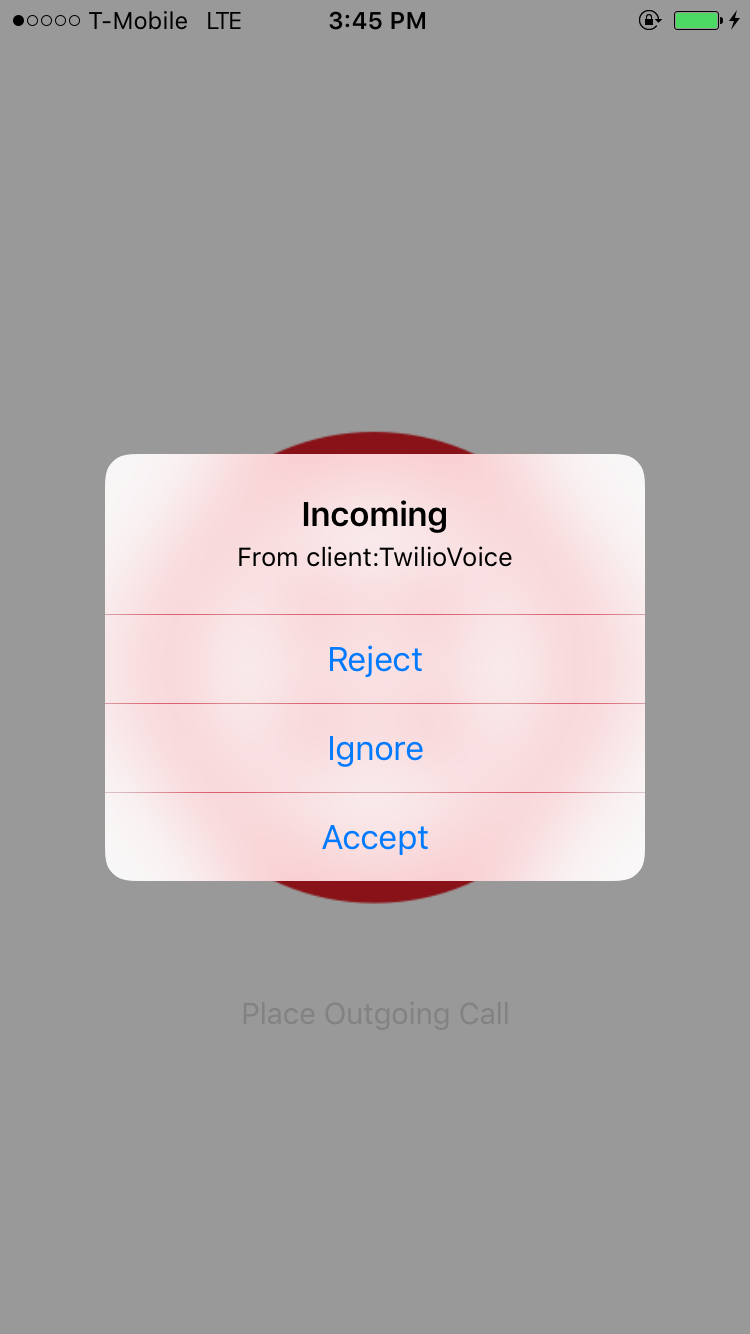
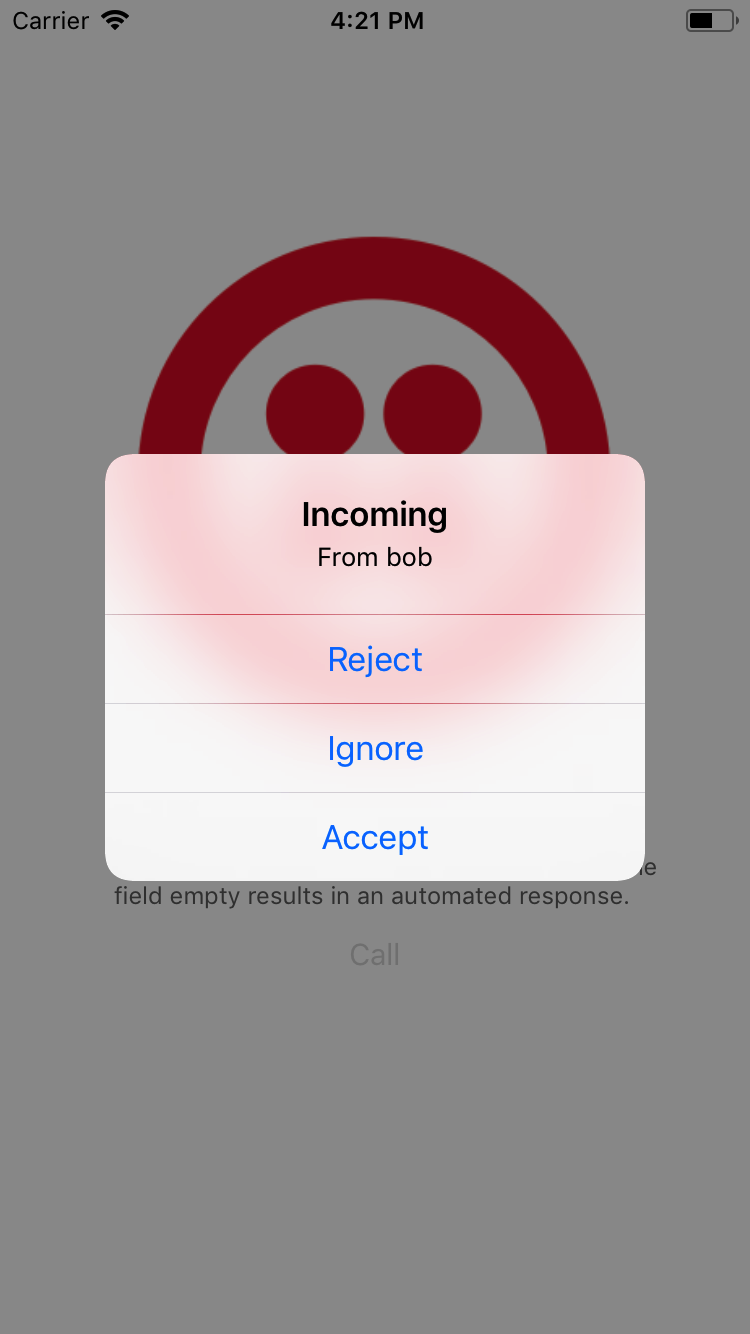
Update UI and screenshots with textfield hint

diff --git a/ObjCVoiceQuickstart/ViewController.m b/ObjCVoiceQuickstart/ViewController.m
@@ -282,7 +282,7 @@ typedef void (^RingtonePlaybackCallback)(void);
     self.call = nil;
     
     [self playDisconnectSound];
-    [self.placeCallButton setTitle:@"Place Outgoing Call" forState:UIControlStateNormal];
+    [self.placeCallButton setTitle:@"Call" forState:UIControlStateNormal];
     [self toggleUIState:YES];
     [self stopSpin];
 }

diff --git a/ObjCVoiceCallKitQuickstart/ViewController.m b/ObjCVoiceCallKitQuickstart/ViewController.m
@@ -235,7 +235,7 @@ static NSString *const kTwimlParamTo = @"to";
     
     [self stopSpin];
     [self toggleUIState:YES];
-    [self.placeCallButton setTitle:@"Place Outgoing Call" forState:UIControlStateNormal];
+    [self.placeCallButton setTitle:@"Call" forState:UIControlStateNormal];
 }
 
 #pragma mark - AVAudioSession
